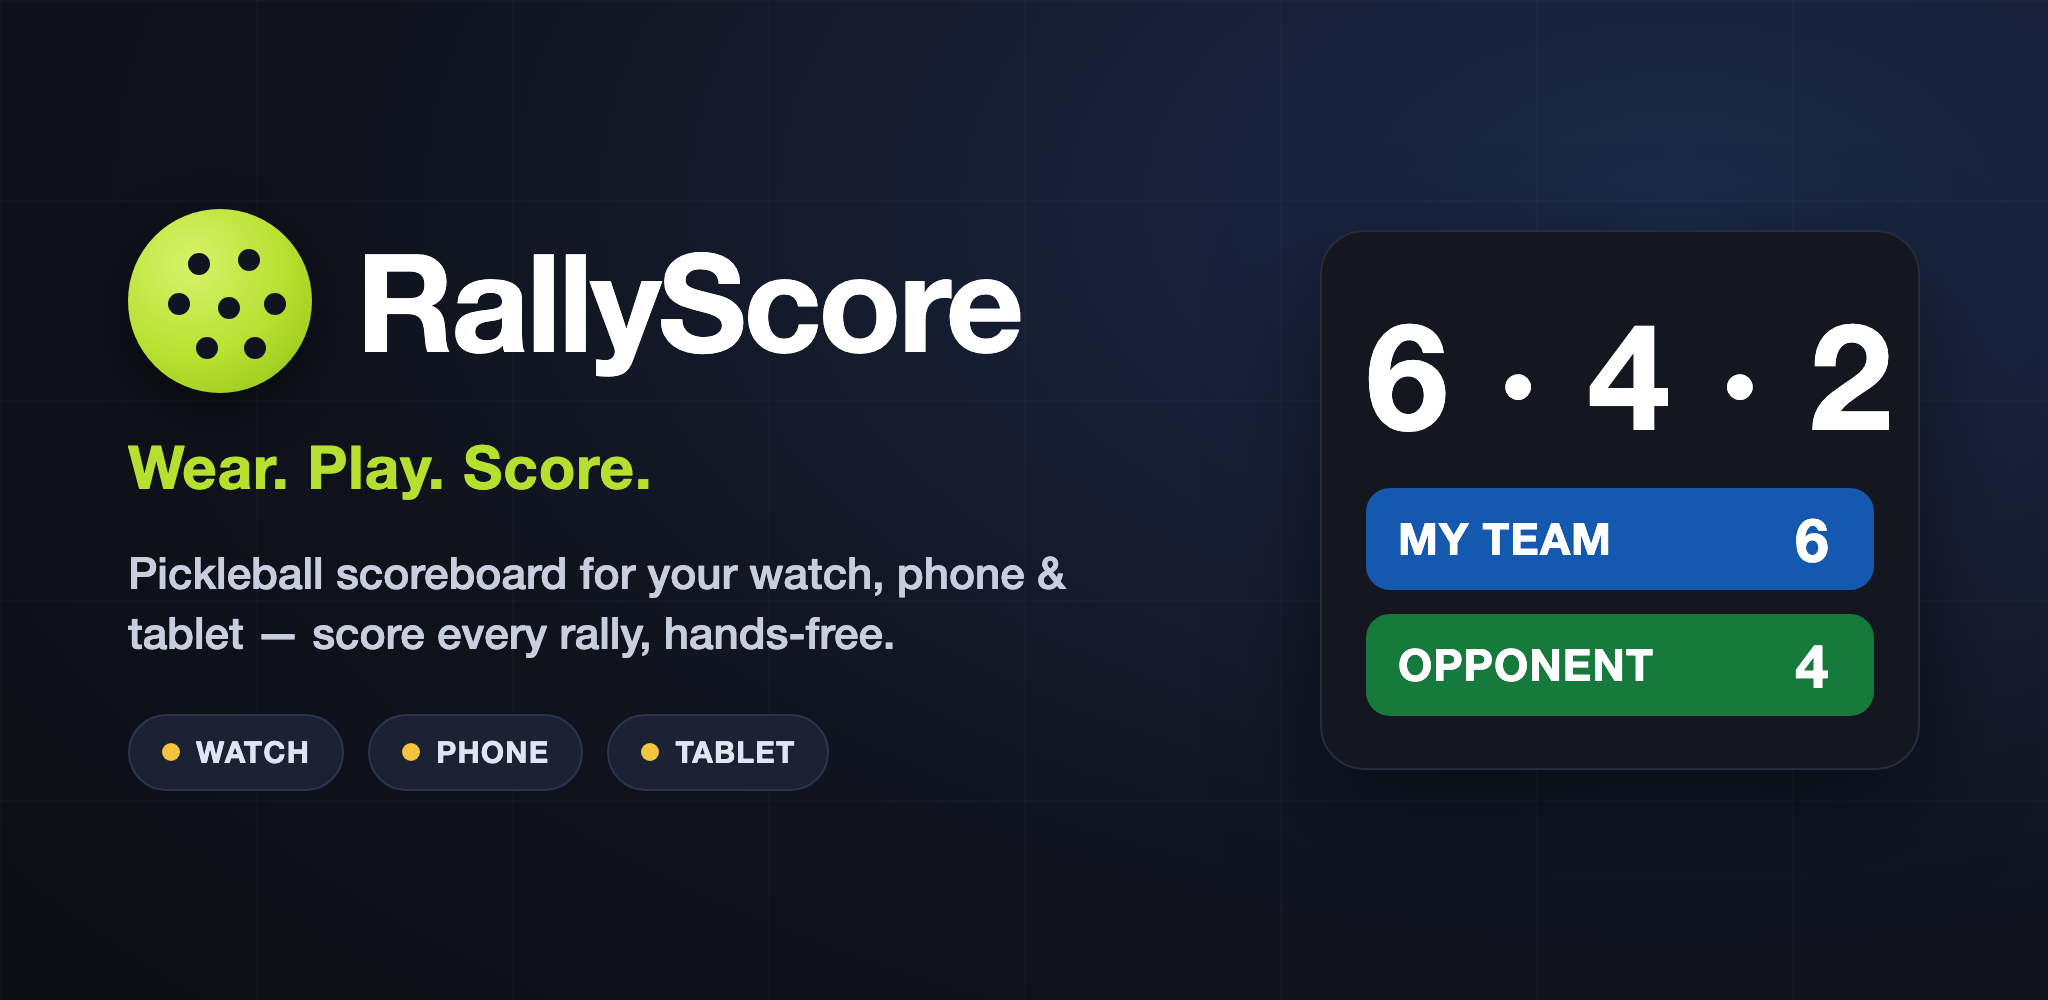
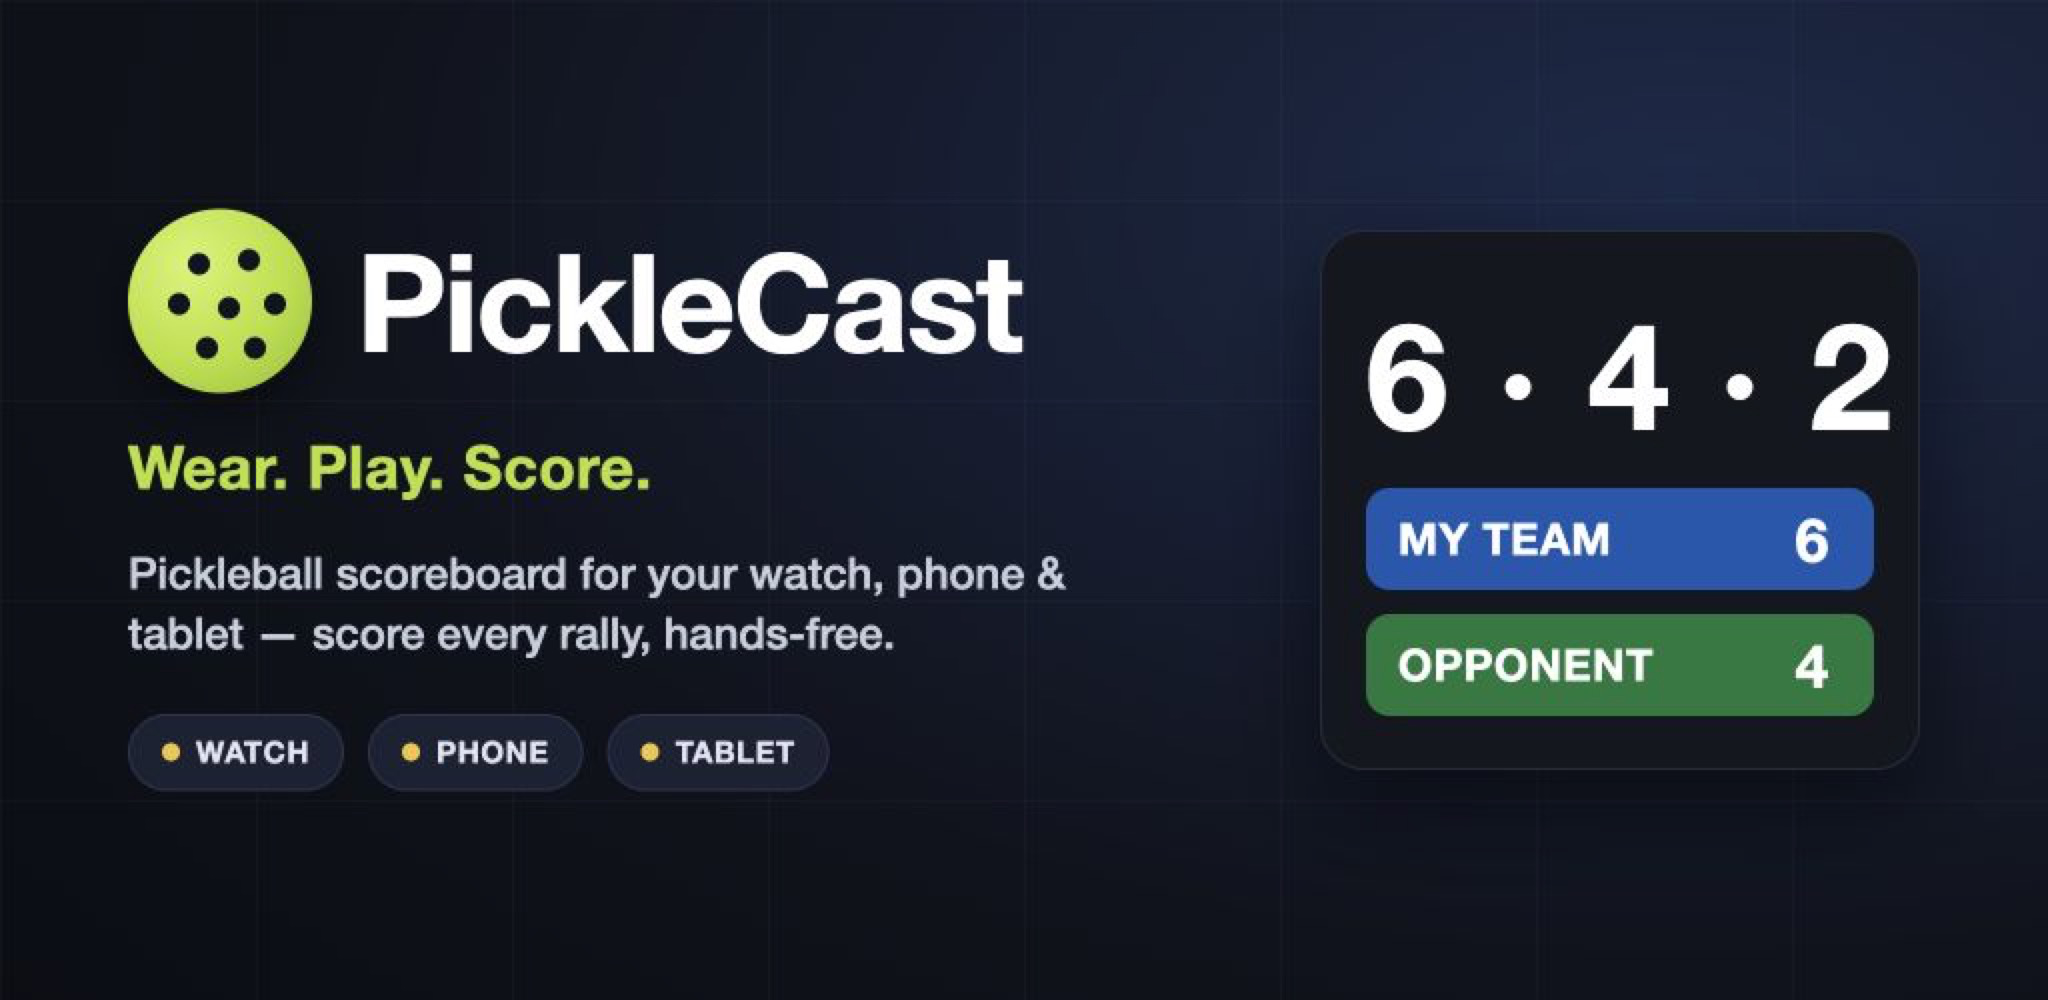
Rebranded to PickleCast

diff --git a/docs/privacy-policy.html b/docs/privacy-policy.html
@@ -3,7 +3,7 @@
 <head>
 <meta charset="utf-8">
 <meta name="viewport" content="width=device-width, initial-scale=1">
-<title>RallyScore — Privacy Policy</title>
+<title>PickleCast — Privacy Policy</title>
 <style>
   :root { color-scheme: light dark; }
   body {
@@ -30,20 +30,20 @@
 </head>
 <body>
 
-<h1>RallyScore — Privacy Policy</h1>
+<h1>PickleCast — Privacy Policy</h1>
 <p class="meta">Last updated: 21 July 2026</p>
 
 <p>
-  RallyScore ("the app") is a pickleball scoreboard for Android phones, Android
+  PickleCast ("the app") is a pickleball scoreboard for Android phones, Android
   tablets, and Wear OS watches, developed by Deric Teong ("we", "us"). This
   policy explains what information the app does and does not handle. In short:
-  <strong>RallyScore does not collect, transmit, or sell your personal
+  <strong>PickleCast does not collect, transmit, or sell your personal
   data.</strong> The app has no user accounts and requires no sign-in.
 </p>
 
 <h2>Information we collect</h2>
 <p>
-  <strong>We do not collect any personal information.</strong> RallyScore has no
+  <strong>We do not collect any personal information.</strong> PickleCast has no
   servers, no analytics, no advertising, and no third-party tracking. We have no
   ability to see your scores, your player names, or how you use the app.
 </p>
@@ -62,7 +62,7 @@
 
 <h2>Photos and on-device text recognition</h2>
 <p>
-  RallyScore includes an optional "Import From Screenshot" feature for adding
+  PickleCast includes an optional "Import From Screenshot" feature for adding
   players. If you choose to use it:
 </p>
 <ul>
@@ -86,7 +86,7 @@
 <h2>Local-network sync between your devices</h2>
 <p>
   When you use more than one device together (for example a phone, a courtside
-  tablet, and/or a Wear OS watch), RallyScore syncs the live score directly
+  tablet, and/or a Wear OS watch), PickleCast syncs the live score directly
   between <strong>your own devices</strong> over your local Wi-Fi network or the
   phone's own hotspot. This communication:
 </p>
@@ -114,7 +114,7 @@
 
 <h2>Children's privacy</h2>
 <p>
-  RallyScore is a general-audience sports scoring app and is not directed to
+  PickleCast is a general-audience sports scoring app and is not directed to
   children under 13. It does not knowingly collect any personal information from
   anyone, including children.
 </p>

diff --git a/shared/src/main/kotlin/com/courtside/pickleball/domain/PickleballGame.kt b/shared/src/main/kotlin/com/courtside/pickleball/domain/PickleballGame.kt
@@ -1,7 +1,7 @@
 package com.courtside.pickleball.domain
 
 /**
- * Highest score a team can reach. RallyScore supports timed play past the usual target score,
+ * Highest score a team can reach. PickleCast supports timed play past the usual target score,
  * but a hard ceiling keeps the score call and scoreboard display from overflowing to a third
  * digit, which the call bar's layout isn't designed to show.
  */
@@ -24,7 +24,7 @@ const val DEFAULT_TEAM_B_PLAYER_2 = "P4"
 /** Trims an entered label, falling back to [placeholder] when nothing was typed. */
 fun String.ifBlankPlaceholder(placeholder: String): String = trim().ifBlank { placeholder }
 
-/** Identifies the blue and green doubles teams tracked by RallyScore. */
+/** Identifies the blue and green doubles teams tracked by PickleCast. */
 enum class Team {
     A,
     B;
@@ -99,7 +99,7 @@ data class GameState(
     /**
      * Returns player names in their current court order based on the team's score parity.
      *
-     * RallyScore uses the same player-position display model for both Traditional and Rally
+     * PickleCast uses the same player-position display model for both Traditional and Rally
      * scoring so players can glance at the screen and confirm who should stand where.
      */
     fun courtOrderedTeamName(team: Team): String {
@@ -113,7 +113,7 @@ data class GameState(
     }
 
     /**
-     * Returns the current serving player's name using RallyScore's fixed-position doubles model.
+     * Returns the current serving player's name using PickleCast's fixed-position doubles model.
      */
     fun servingPlayerName(): String {
         val effectiveServerIsOne = isFirstServerException || serverNumber == ServerNumber.One

diff --git a/app/src/main/java/com/courtside/pickleball/ui/setup/MatchSetupScreen.kt b/app/src/main/java/com/courtside/pickleball/ui/setup/MatchSetupScreen.kt
@@ -196,11 +196,11 @@ internal fun MatchSetupScreen(
                     ) {
                         Image(
                             painter = painterResource(id = R.drawable.ic_launcher_foreground),
-                            contentDescription = "RallyScore icon",
+                            contentDescription = "PickleCast icon",
                             modifier = Modifier.size(68.dp)
                         )
                         Text(
-                            text = "RallyScore",
+                            text = "PickleCast",
                             color = Ink,
                             fontSize = 46.sp,
                             fontWeight = FontWeight.Black,
@@ -238,11 +238,11 @@ internal fun MatchSetupScreen(
                         ) {
                             Image(
                                 painter = painterResource(id = R.drawable.ic_launcher_foreground),
-                                contentDescription = "RallyScore icon",
+                                contentDescription = "PickleCast icon",
                                 modifier = Modifier.size(if (isTabletLayout) 26.dp else 22.dp)
                             )
                             Text(
-                                text = "RallyScore",
+                                text = "PickleCast",
                                 color = Ink,
                                 fontSize = if (isTabletLayout) 20.sp else 17.sp,
                                 fontWeight = FontWeight.Black,

diff --git a/app/src/main/java/com/courtside/pickleball/ui/onboarding/ScoringTutorial.kt b/app/src/main/java/com/courtside/pickleball/ui/onboarding/ScoringTutorial.kt
@@ -67,7 +67,7 @@ internal fun ScoringTutorialDialog(onDismiss: () -> Unit) {
             Column(verticalArrangement = Arrangement.spacedBy(12.dp)) {
                 Text(
                     text = "When a team wins the rally, tap that team's score. " +
-                        "RallyScore works out the serve and side-out for you.",
+                        "PickleCast works out the serve and side-out for you.",
                     fontSize = 15.sp
                 )
                 TutorialTeamRow(

diff --git a/play-assets/feature-graphic/feature.html b/play-assets/feature-graphic/feature.html
@@ -67,7 +67,7 @@
           <i class="h1"></i><i class="h2"></i><i class="h3"></i><i class="h4"></i>
           <i class="h5"></i><i class="h6"></i><i class="h7"></i>
         </div>
-        <div class="wordmark">RallyScore</div>
+        <div class="wordmark">PickleCast</div>
       </div>
       <div class="tagline">Wear. Play. Score.</div>
       <div class="subtitle">Pickleball scoreboard for your watch, phone &amp; tablet — score every rally, hands-free.</div>

diff --git a/app/src/main/java/com/courtside/pickleball/MainActivity.kt b/app/src/main/java/com/courtside/pickleball/MainActivity.kt
@@ -16,7 +16,7 @@ import com.courtside.pickleball.sync.WatchTabletFallbackSync
 import com.courtside.pickleball.ui.ScoreboardApp
 import com.courtside.pickleball.ui.ScoreboardViewModel
 
-/** Phone and tablet host activity for RallyScore. */
+/** Phone and tablet host activity for PickleCast. */
 class MainActivity : ComponentActivity() {
     override fun onCreate(savedInstanceState: Bundle?) {
         super.onCreate(savedInstanceState)

diff --git a/app/src/main/java/com/courtside/pickleball/ui/ScoreboardViewModel.kt b/app/src/main/java/com/courtside/pickleball/ui/ScoreboardViewModel.kt
@@ -26,7 +26,7 @@ import com.courtside.pickleball.sync.TabletSetupPayload
 import com.courtside.pickleball.sync.WatchTabletFallbackSync
 import kotlinx.coroutines.flow.StateFlow
 
-/** ViewModel façade for RallyScore phone and tablet screens. */
+/** ViewModel façade for PickleCast phone and tablet screens. */
 class ScoreboardViewModel(
     private val store: ScoreboardStore,
     private val phoneHub: RallyScorePhoneHub,

diff --git a/wear/src/main/java/com/courtside/pickleball/wear/MainActivity.kt b/wear/src/main/java/com/courtside/pickleball/wear/MainActivity.kt
@@ -9,7 +9,7 @@ import androidx.compose.runtime.setValue
 import androidx.fragment.app.FragmentActivity
 import androidx.wear.ambient.AmbientModeSupport
 
-/** Wear host activity for RallyScore watch experiences. */
+/** Wear host activity for PickleCast watch experiences. */
 class MainActivity : FragmentActivity(), AmbientModeSupport.AmbientCallbackProvider {
     private var isAmbient by mutableStateOf(false)
 

diff --git a/shared/src/main/kotlin/com/courtside/pickleball/domain/WearSyncContract.kt b/shared/src/main/kotlin/com/courtside/pickleball/domain/WearSyncContract.kt
@@ -41,7 +41,7 @@ object WearSyncContract {
     const val VOICE_WATCH_THEN_PHONE_THEN_TABLET = "watch_then_phone_then_tablet"
 }
 
-/** Voice routing modes synchronized across RallyScore devices. */
+/** Voice routing modes synchronized across PickleCast devices. */
 enum class VoiceAnnouncementMode(val wireValue: String) {
     Off(WearSyncContract.VOICE_OFF),
     PhoneOnly(WearSyncContract.VOICE_PHONE_ONLY),

diff --git a/shared/src/main/kotlin/com/courtside/pickleball/domain/PickleballScoringEngine.kt b/shared/src/main/kotlin/com/courtside/pickleball/domain/PickleballScoringEngine.kt
@@ -1,7 +1,7 @@
 package com.courtside.pickleball.domain
 
 /**
- * Pure scoring engine for RallyScore match updates.
+ * Pure scoring engine for PickleCast match updates.
  *
  * The engine never auto-completes a match. It only applies the configured scoring format,
  * serve transitions, side outs, and first-server exception rules.

diff --git a/wear/src/main/java/com/courtside/pickleball/wear/WearScoreboardApp.kt b/wear/src/main/java/com/courtside/pickleball/wear/WearScoreboardApp.kt
@@ -168,7 +168,7 @@ private fun AmbientScoreView(info: AmbientScoreInfo?) {
     ) {
         if (info == null) {
             Text(
-                text = "RallyScore",
+                text = "PickleCast",
                 color = Color(0xFF616161),
                 fontSize = 18.sp,
                 fontWeight = FontWeight.Normal

diff --git a/docs/Architecture.md b/docs/Architecture.md
@@ -2,7 +2,7 @@
 
 ## Summary
 
-RallyScore is a flexible scoring ecosystem that supports multiple device combinations. Additional devices enhance the experience but are not required. Exactly one active source of truth must exist per match. Phone Only, Tablet Only, and Watch Only may each own standalone match state. When a watch is used in connected mode, the phone remains the primary hub. Phone + Tablet synced modes already share one canonical match state today (see "Display Surface And Phone-Tablet Sync" below) — what remains future work is deterministic conflict handling for near-simultaneous multi-device input, not the sync itself.
+PickleCast is a flexible scoring ecosystem that supports multiple device combinations. Additional devices enhance the experience but are not required. Exactly one active source of truth must exist per match. Phone Only, Tablet Only, and Watch Only may each own standalone match state. When a watch is used in connected mode, the phone remains the primary hub. Phone + Tablet synced modes already share one canonical match state today (see "Display Surface And Phone-Tablet Sync" below) — what remains future work is deterministic conflict handling for near-simultaneous multi-device input, not the sync itself.
 
 Supported modes:
 
@@ -218,7 +218,7 @@ hatch, unaffected by any of this.
 
 To reduce cross-court confusion on shared hotspot or Wi-Fi networks, tablet discovery is now explicit instead of silently auto-attaching to the first phone that answers. The phone setup screen exposes a compact court code derived from the stable `hostId`. An unpaired tablet stays on its normal setup screen, shows a list of discovered phones with court codes, and joins only after the user picks the intended court. After the first join, the tablet remembers that host and reconnects to it automatically until the user chooses Change Phone / forget pairing.
 
-This command/state sync path is still an MVP synced-controller transport, not the final conflict-handled phone/tablet peer model. Real Wi-Fi networks may block local-device discovery or direct delivery. Deterministic multi-controller conflict handling remains future work, but explicit tablet court selection is now the first user-visible safeguard for multiple RallyScore courts sharing one network.
+This command/state sync path is still an MVP synced-controller transport, not the final conflict-handled phone/tablet peer model. Real Wi-Fi networks may block local-device discovery or direct delivery. Deterministic multi-controller conflict handling remains future work, but explicit tablet court selection is now the first user-visible safeguard for multiple PickleCast courts sharing one network.
 
 Tablet screen routing uses the following priority:
 
@@ -280,7 +280,7 @@ The domain model is intentionally small. The app should prefer adding tests to s
 Current scoring-format behavior:
 
 - Traditional is the default and remains unchanged.
-- Rally mode is RallyScore's custom social-play variant:
+- Rally mode is PickleCast's custom social-play variant:
   - every rally awards a point to the rally winner
   - two serves remain active
   - first-server exception still applies
@@ -319,7 +319,7 @@ Current behavior:
   OS build actually entering the system ambient state before sleep — on at least one tested OEM
   skin, the manufacturer's own system UI takes over the display during the dozing transition
   instead of handing ambient rendering back to the app, a device-level constraint outside
-  RallyScore's control.
+  PickleCast's control.
 
 Standalone Watch Only behavior:
 
@@ -347,7 +347,7 @@ Remote-control behavior uses Wear OS Data Layer:
 - Phone score snapshots include active-match and undo-availability flags.
 - When both phone and tablet are connected to the watch, the watch prefers the
   phone as its single command target.
-- When no phone is available but a RallyScore tablet is connected, the watch may
+- When no phone is available but a PickleCast tablet is connected, the watch may
   target the tablet directly and the tablet becomes the source of truth for that
   connected match.
 - Direct watch-to-tablet discovery includes the tablet court code.
